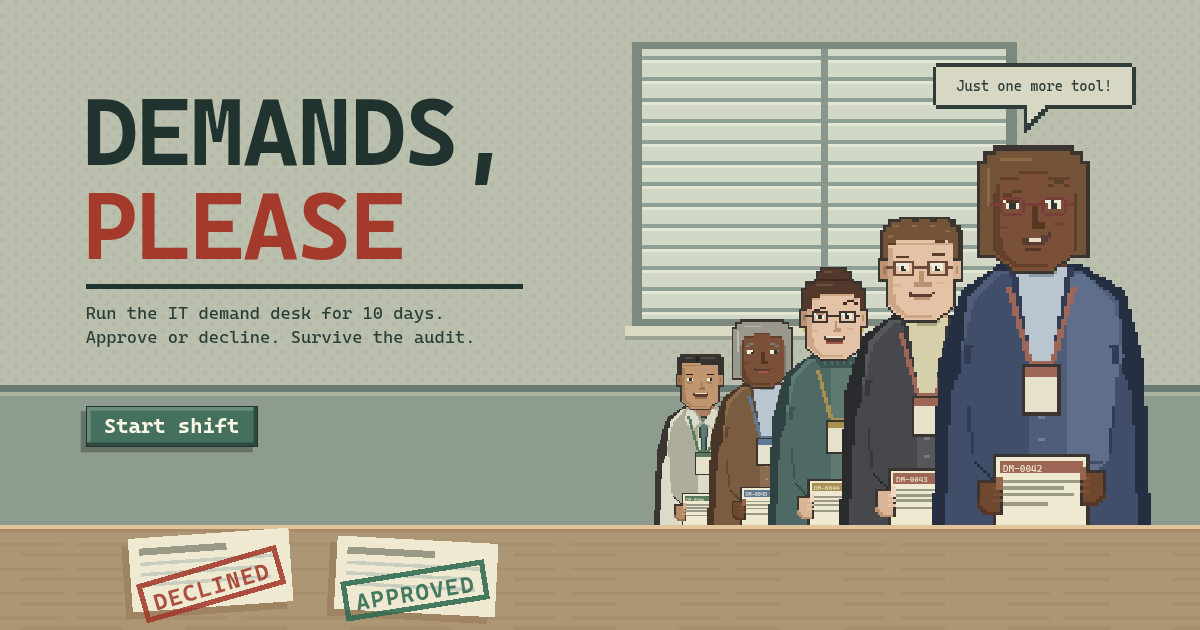
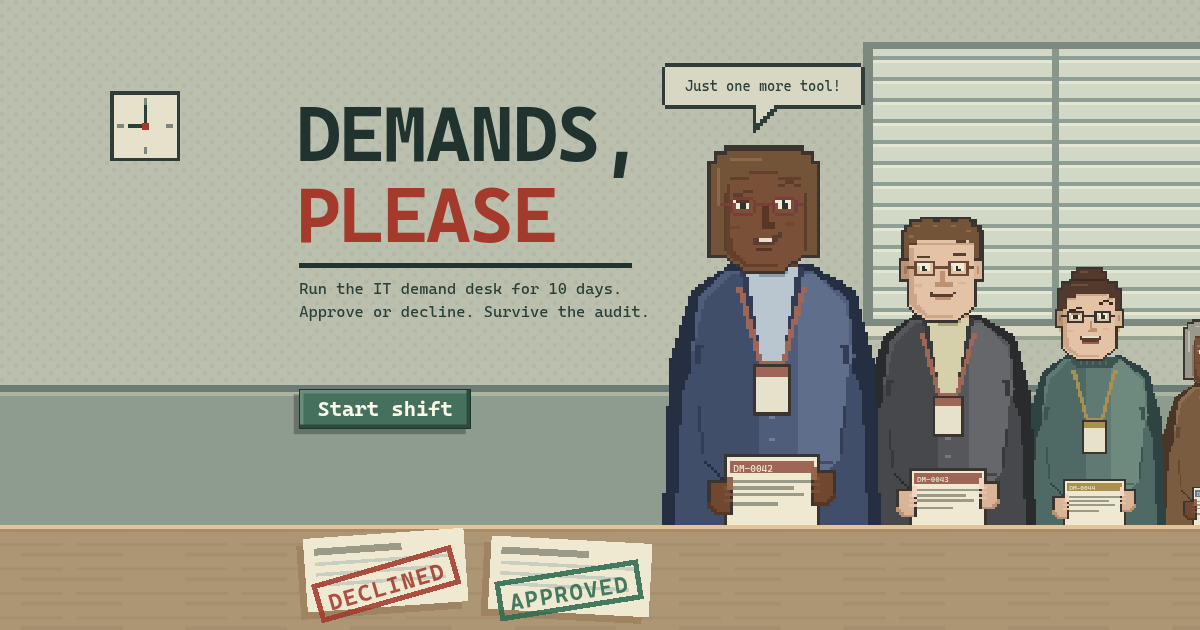
fix: social card survives Slack's square crop
Slack's compact unfurl shows only the middle square of the card, which cut
the title in half. The title, button and front of the line now sit within the
middle square; the line runs off to the right.

diff --git a/src/render/TitleScreen.tsx b/src/render/TitleScreen.tsx
@@ -12,7 +12,10 @@ import { useFit } from "./stageFitContext";
 /** Where the far edge of the counter meets the wall, as in the room. */
 const DESK_BACK = 300;
 
-/** The line at the desk, furthest first: who, how big, how far right of centre. */
+/**
+ * The line at the desk, furthest first: who, how big, and how far right of centre. The front of
+ * the line stands just right of the title, and it stretches off past the right edge.
+ */
 type InLineProps = {
   person: Pick<Employee, "name" | "gender">;
   dept: string;
@@ -21,15 +24,18 @@ type InLineProps = {
 };
 
 const QUEUE: InLineProps[] = [
-  { person: { name: "Dirk Lehmann", gender: "male" }, dept: "manufacturing", scale: 0.42, x: 40 },
-  { person: { name: "Mira Schulz", gender: "female" }, dept: "hr", scale: 0.5, x: 70 },
-  { person: { name: "Clara Wendt", gender: "female" }, dept: "finance", scale: 0.6, x: 104 },
+  { person: { name: "Felix Hahn", gender: "male" }, dept: "hr", scale: 0.28, x: 560 },
+  { person: { name: "Ines Haas", gender: "female" }, dept: "finance", scale: 0.32, x: 510 },
+  { person: { name: "Noah Becker", gender: "male" }, dept: "sales-marketing", scale: 0.36, x: 456 },
+  { person: { name: "Dirk Lehmann", gender: "male" }, dept: "manufacturing", scale: 0.42, x: 396 },
+  { person: { name: "Mira Schulz", gender: "female" }, dept: "hr", scale: 0.5, x: 316 },
+  { person: { name: "Clara Wendt", gender: "female" }, dept: "finance", scale: 0.6, x: 238 },
   { person: { name: "Marco Rossi", gender: "male" }, dept: "sales-marketing", scale: 0.74, x: 144 },
   {
     person: { name: "Hannah Scholz", gender: "female" },
     dept: "sales-marketing",
     scale: 0.92,
-    x: 196,
+    x: 30,
   },
 ];
 
@@ -99,12 +105,14 @@ function Stamped({
 /**
  * The title screen, and the picture links unfurl to (`public/og-image.png` is a screenshot of
  * it): the desk, a line of people with requests stretching back, and a button to clock in.
+ *
+ * Slack's compact unfurl crops the card to its middle square (360 game px at 1200×630), so the
+ * title, the button and the front of the line all sit within 180 of the centre.
  */
 export function TitleScreen({ resume, onStart }: { resume: boolean; onStart: () => void }) {
   const { width, height } = useFit();
   const mid = Math.round(width / 2);
-  const left = mid - 300;
-  const queueX = mid - 12;
+  const left = mid - 178;
 
   useEffect(() => {
     const onKey = (e: KeyboardEvent) => {
@@ -144,27 +152,37 @@ export function TitleScreen({ resume, onStart }: { resume: boolean; onStart: () 
 
         <rect width={width} height={height} fill="url(#title-wall)" />
         {/* The window behind the line, light from the right. */}
-        <rect x={queueX + 30} y="24" width="220" height="164" fill="#7b897f" />
-        <rect x={queueX + 36} y="28" width="208" height="154" fill="url(#title-blinds)" />
-        <rect x={queueX + 138} y="28" width="4" height="154" fill="#89968b" />
-        <rect x={queueX + 26} y="186" width="228" height="6" fill="#dad9c3" />
-        <rect x={queueX + 26} y="192" width="228" height="2" fill="#9aa392" />
+        <rect x={mid + 150} y="24" width="220" height="164" fill="#7b897f" />
+        <rect x={mid + 156} y="28" width="208" height="154" fill="url(#title-blinds)" />
+        <rect x={mid + 258} y="28" width="4" height="154" fill="#89968b" />
+        <rect x={mid + 146} y="186" width="228" height="6" fill="#dad9c3" />
+        <rect x={mid + 146} y="192" width="228" height="2" fill="#9aa392" />
+
+        {/* The office clock, on the dot of nine. */}
+        <g transform={`translate(${mid - 280} 52)`}>
+          <rect width="40" height="40" fill="#2f3c3a" />
+          <rect x="2" y="2" width="36" height="36" fill="#e5e1cb" />
+          <rect x="19" y="4" width="2" height="4" fill="#7a877c" />
+          <rect x="19" y="32" width="2" height="4" fill="#7a877c" />
+          <rect x="4" y="19" width="4" height="2" fill="#7a877c" />
+          <rect x="32" y="19" width="4" height="2" fill="#7a877c" />
+          <rect x="19" y="8" width="2" height="12" fill="#2b3f39" />
+          <rect x="10" y="19" width="10" height="2" fill="#2b3f39" />
+          <rect x="18" y="18" width="4" height="4" fill="#a33a2c" />
+        </g>
         <rect y="220" width={width} height={DESK_BACK - 220} fill="#8d9c8e" />
         <rect y="220" width={width} height="4" fill="#6a7c73" />
         <rect y="224" width={width} height="2" fill="#aab4a0" />
 
         {/* The line, furthest first, so the nearer ones stand in front. */}
         {QUEUE.map((q, i) => (
-          <g
-            key={q.person.name}
-            transform={`translate(${queueX + q.x} ${DESK_BACK - 314 * q.scale})`}
-          >
-            <InLine {...q} ticket={`DM-${String(46 - i).padStart(4, "0")}`} />
+          <g key={q.person.name} transform={`translate(${mid + q.x} ${DESK_BACK - 314 * q.scale})`}>
+            <InLine {...q} ticket={`DM-${String(42 + QUEUE.length - 1 - i).padStart(4, "0")}`} />
           </g>
         ))}
 
         {/* The one at the front has a pitch ready. */}
-        <g transform={`translate(${queueX + 204} 36)`}>
+        <g transform={`translate(${mid + 37} 36)`}>
           <Px d="M0 0h112v2h2v22h-2v2H64l-14 16V26H0v-2h-2V2h2Z" fill="#2f3c3a" />
           <Px d="M0 2h112v22H62l-10 12V24H0Z" fill="#d8d7c3" />
           <text x="56" y="16" textAnchor="middle" fontSize="8" fill="#2b3f39">
@@ -177,22 +195,22 @@ export function TitleScreen({ resume, onStart }: { resume: boolean; onStart: () 
         <rect y={DESK_BACK} width={width} height="2" fill="#e2c49a" />
         <rect y={DESK_BACK + 2} width={width} height="2" fill="#a88b68" />
 
-        <Stamped x={left + 30} y={DESK_BACK + 8} turn={-4} word="DECLINED" ink="#a33a2c" />
-        <Stamped x={left + 150} y={DESK_BACK + 6} turn={3} word="APPROVED" ink="#2e6b52" />
+        <Stamped x={left + 8} y={DESK_BACK + 8} turn={-4} word="DECLINED" ink="#a33a2c" />
+        <Stamped x={left + 116} y={DESK_BACK + 6} turn={3} word="APPROVED" ink="#2e6b52" />
 
         {/* The title, set like a sign on the wall. */}
         <g transform={`translate(${left} 0)`}>
-          <text x="4" y="94" fontSize="54" fontWeight="800" fill="#20332f" letterSpacing="-1">
+          <text x="4" y="92" fontSize="44" fontWeight="800" fill="#20332f" letterSpacing="-1">
             DEMANDS,
           </text>
-          <text x="4" y="148" fontSize="54" fontWeight="800" fill="#a33a2c" letterSpacing="-1">
+          <text x="4" y="138" fontSize="44" fontWeight="800" fill="#a33a2c" letterSpacing="-1">
             PLEASE
           </text>
-          <rect x="6" y="162" width="250" height="3" fill="#20332f" />
-          <text x="6" y="182" fontSize="10" fill="#2b3f39">
+          <rect x="6" y="150" width="190" height="3" fill="#20332f" />
+          <text x="6" y="168" fontSize="9" fill="#2b3f39">
             Run the IT demand desk for 10 days.
           </text>
-          <text x="6" y="196" fontSize="10" fill="#2b3f39">
+          <text x="6" y="181" fontSize="9" fill="#2b3f39">
             Approve or decline. Survive the audit.
           </text>
         </g>
@@ -201,7 +219,7 @@ export function TitleScreen({ resume, onStart }: { resume: boolean; onStart: () 
       <button
         type="button"
         className="title-start"
-        style={{ left: gamePx(left + 6), top: gamePx(232) }}
+        style={{ left: gamePx(left + 6), top: gamePx(222) }}
         onClick={onStart}
       >
         {resume ? "Continue shift" : "Start shift"}
